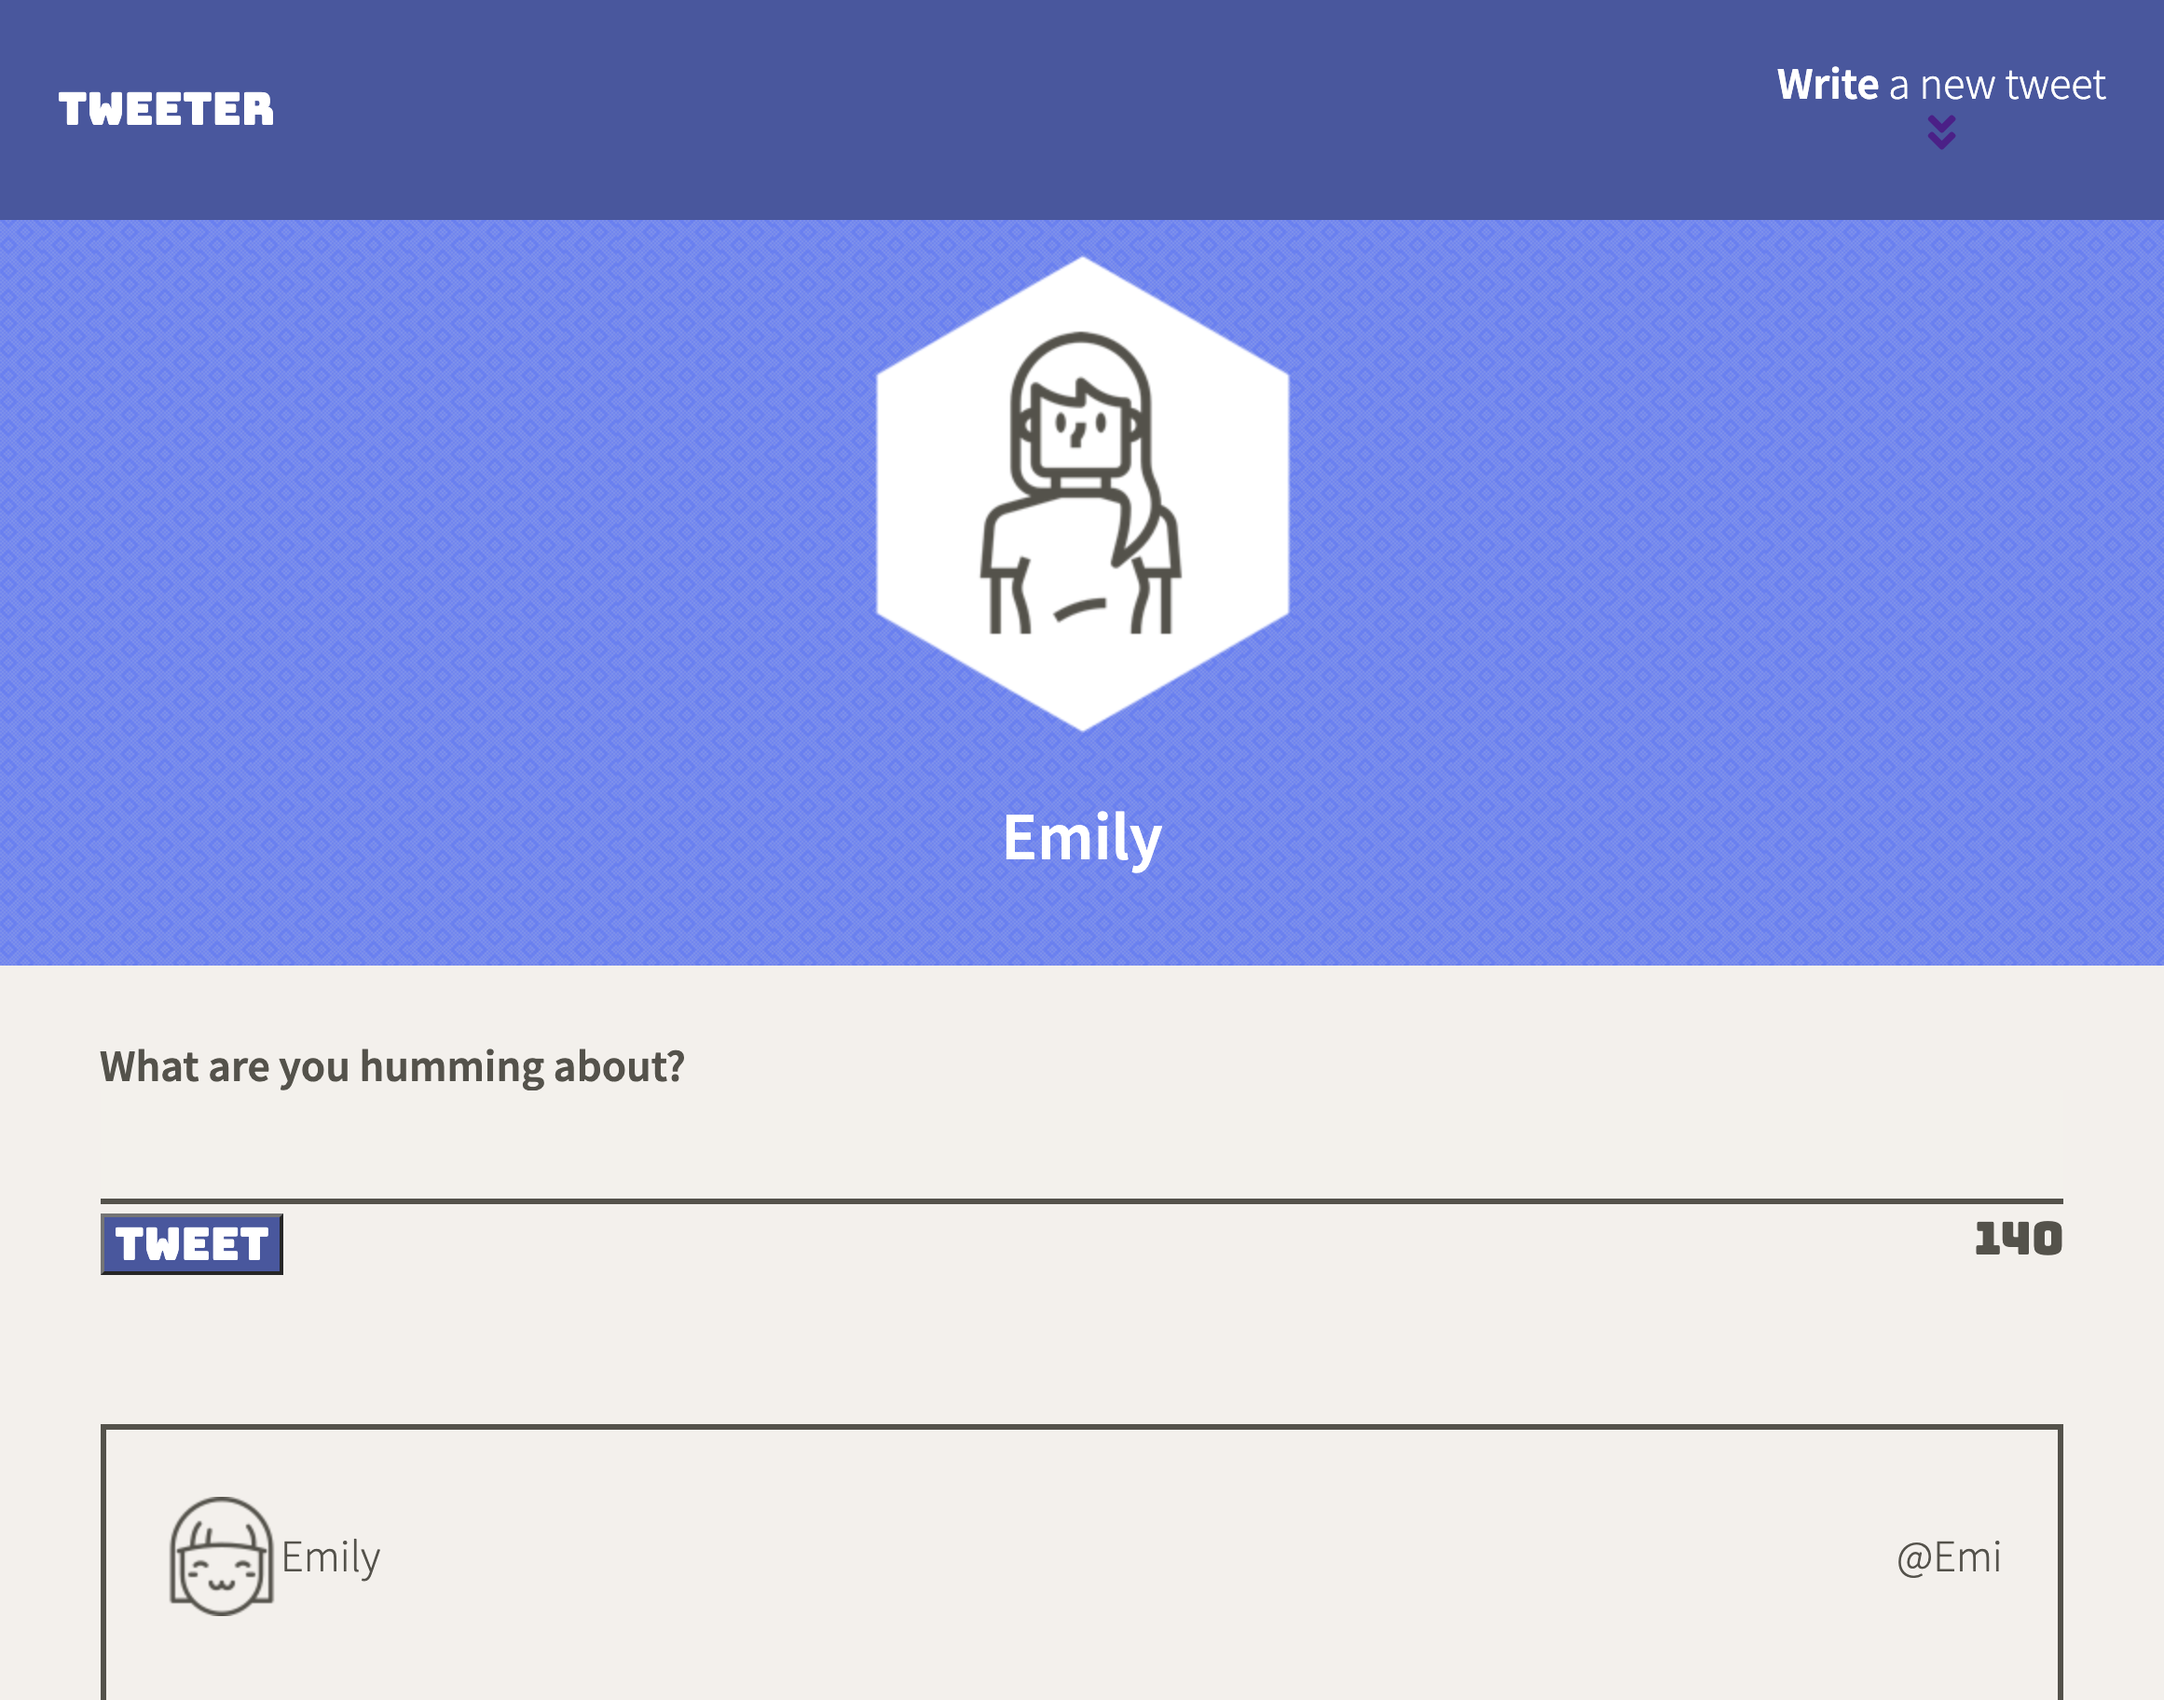
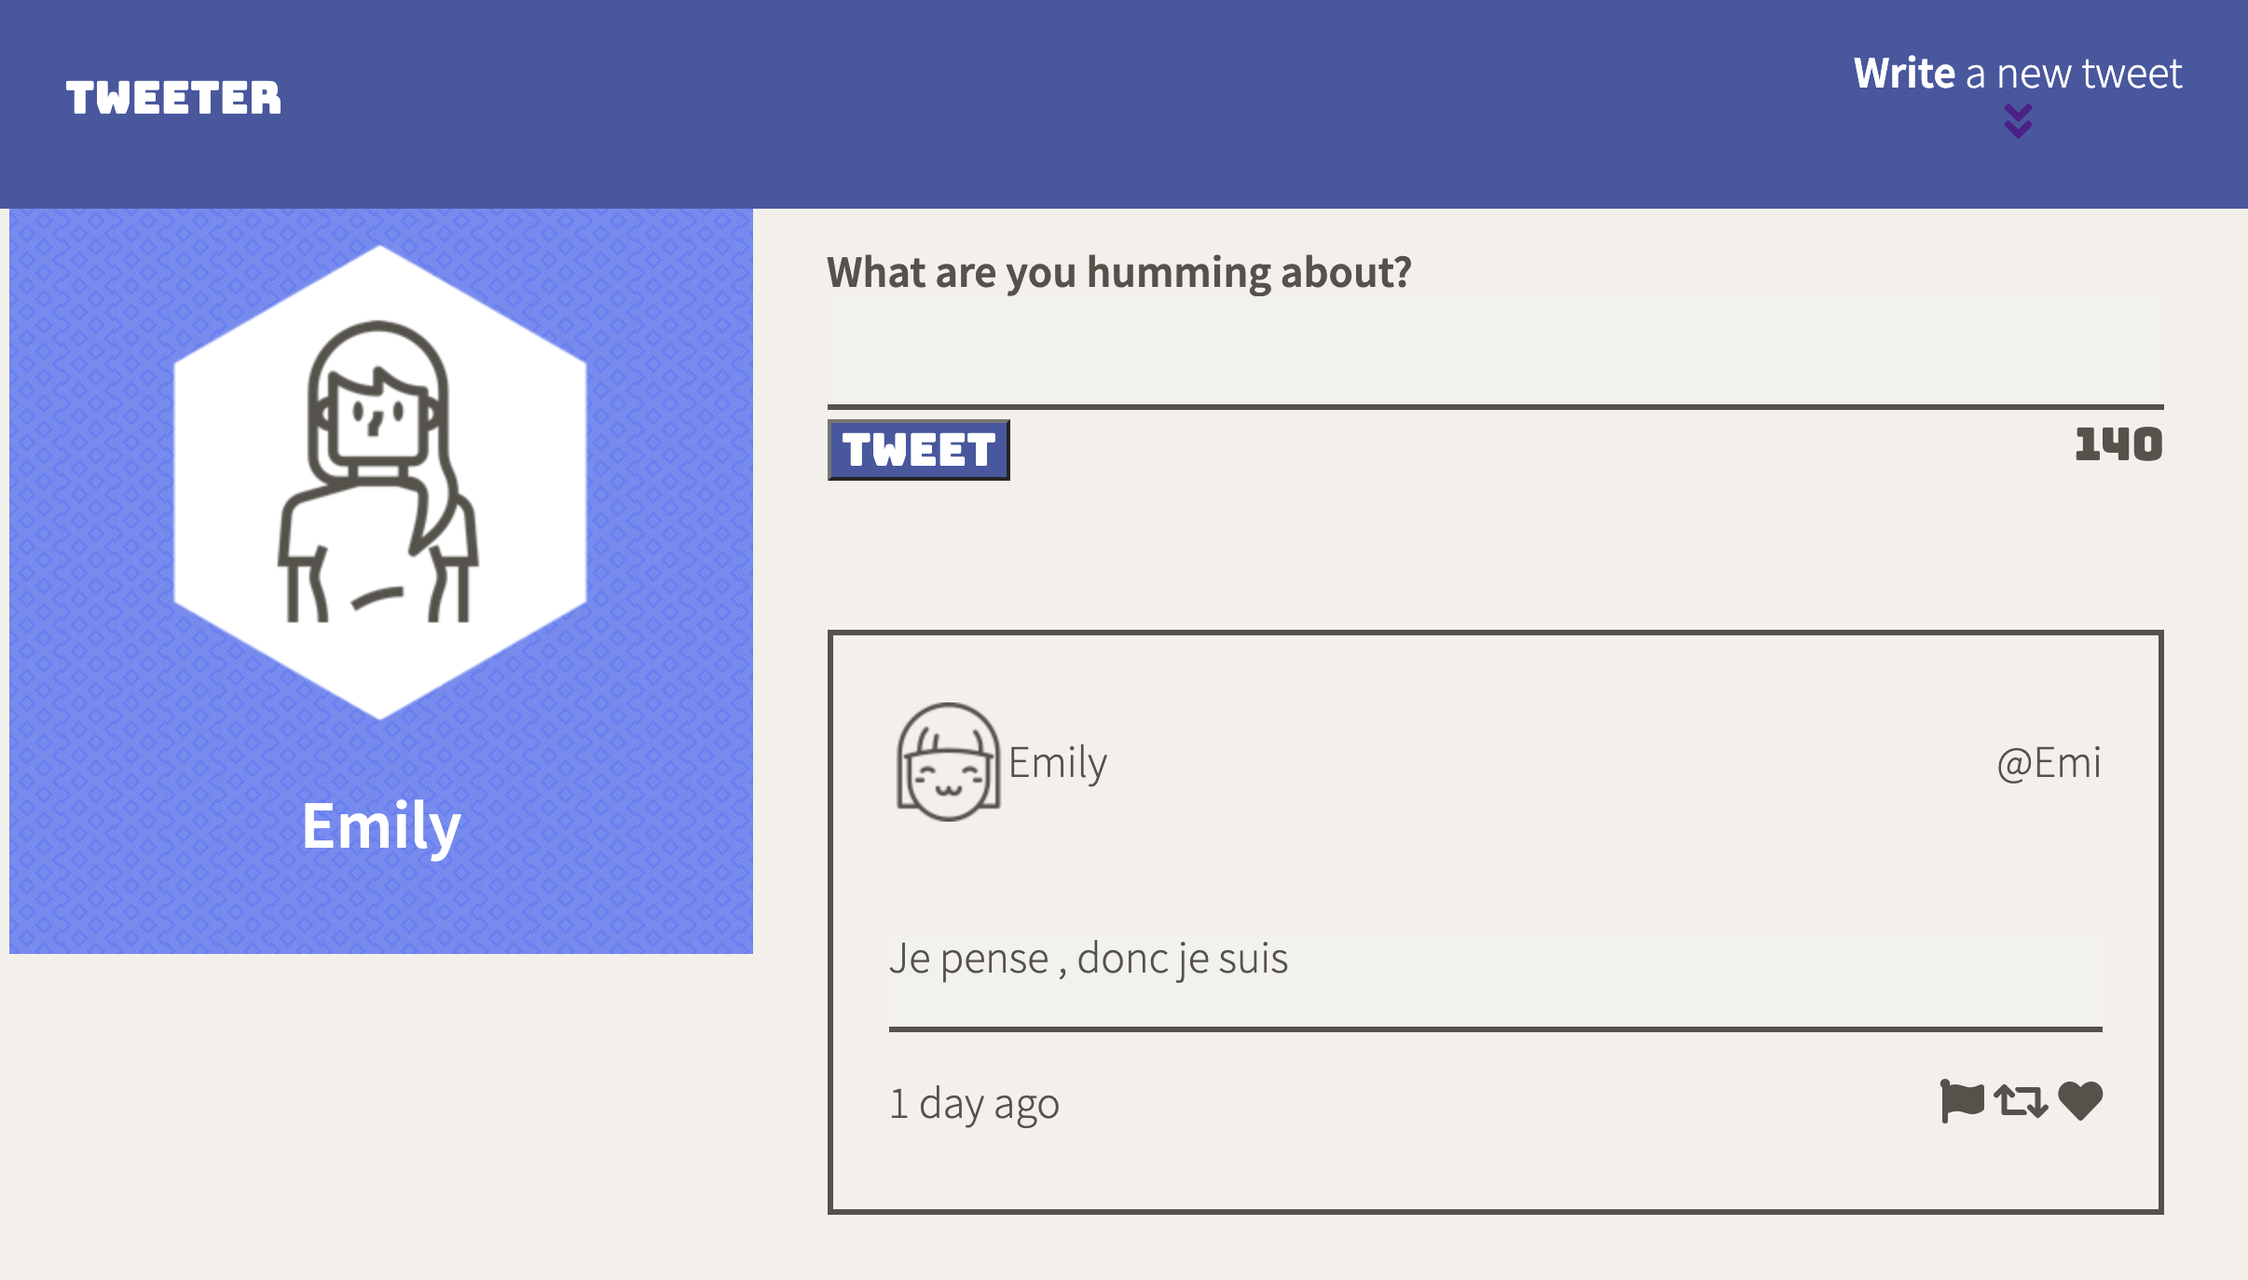
edited README.md img

diff --git a/public/index.html b/public/index.html
@@ -12,17 +12,18 @@
     <link href="https://fonts.googleapis.com/css2?family=Bungee&family=Source+Sans+Pro:wght@300;600&display=swap" rel="stylesheet">
 
     <!-- App CSS -->
-    <link rel="stylesheet" href="/styles/layout.css" type="text/css" />
+    
     <link rel="stylesheet" href="/styles/nav.css" type="text/css" />
     <link rel="stylesheet" href="/styles/header.css" type="text/css" />
     <link rel="stylesheet" href="/styles/new-tweet.css" type="text/css" />
     <link rel="stylesheet" href="/styles/publishedTweet.css" type="text/css" />
+    <link rel="stylesheet" href="/styles/layout.css" type="text/css" />
     <link rel="stylesheet" href="https://cdnjs.cloudflare.com/ajax/libs/font-awesome/5.15.4/css/all.min.css" integrity="sha512-1ycn6IcaQQ40/MKBW2W4Rhis/DbILU74C1vSrLJxCq57o941Ym01SwNsOMqvEBFlcgUa6xLiPY/NS5R+E6ztJQ==" crossorigin="anonymous" referrerpolicy="no-referrer" />
 
     <!-- External JS -->
     <script src="https://ajax.googleapis.com/ajax/libs/jquery/3.4.1/jquery.min.js"></script>
     <script src="https://cdnjs.cloudflare.com/ajax/libs/timeago.js/4.0.2/timeago.min.js" integrity="sha512-SVDh1zH5N9ChofSlNAK43lcNS7lWze6DTVx1JCXH1Tmno+0/1jMpdbR8YDgDUfcUrPp1xyE53G42GFrcM0CMVg==" crossorigin="anonymous" referrerpolicy="no-referrer"></script>
-
+    <meta name='viewport' content='width=device-width, initial-scale=1.0, maximum-scale=1.0' />
 
   </head>
 
@@ -33,14 +34,16 @@
       <span class="newTeet"><span class="bold">Write</span> a new tweet<br><a href="#profName"><i class="fas fa-angle-double-down"></i></a></span>
     </nav>
 
-    <header id="mainHeader">
-      <div class="profilePic">
-          <img src="/images/profile-hex.png"> 
-      </div>
-      <div>
-          <h2 class="profileName" id="profName"><span class="bold">Emily</span></h2>
-      </div>
-    </header>
+    <div class="body-content-wrapper">
+      <header id="mainHeader">
+        <div class="profilePic">
+            <img src="/images/profile-hex.png"> 
+        </div>
+        <div>
+            <h2 class="profileName" id="profName"><span class="bold">Emily</span></h2>
+        </div>
+      </header>
+     
 
     <!-- Page-specific (main) content here -->
     <main class="container">
@@ -58,8 +61,8 @@
       <!-- DIV where will render user's tweet -->
       <div id="tweets-container"></div>
     </main>
-      
-    <footer id="mainFooter">Tweeter</footer>
+  </div>   
+
 
     <!-- App JS --> 
     <script type="text/javascript" src="/scripts/composer-char-counter.js"></script>

diff --git a/public/styles/layout.css b/public/styles/layout.css
@@ -22,29 +22,27 @@ body {
 }
 
 .container {  
-  width: auto;
+  width: 100%;
   display: flex;
   flex-direction: row;
-  justify-content: center;
+  justify-content: center;  
+  flex-wrap: wrap; 
+  align-content: center;
   background-color: #f4f1ec;
   padding-top: 40px;
+  
+}
+.body-content-wrapper{
+  display: flex;
+  flex-direction: column;
+  justify-content: center;  
+  flex-wrap: wrap; 
   align-content: center;
-  flex-wrap: wrap;
+  
 }
 
 span.bold {
   font-weight: 600;
-}
-
-#mainFooter {
-  height: 100px;
-  padding-top: 50px;
-  padding-bottom: 50px;
-  background-color: #787879;
-  color: #fff;
-  align-items: center;
-  font-family: 'Bungee', sans-serif;
-  text-align: center;
 }
 
 #alertMsg {
@@ -58,3 +56,21 @@ span.bold {
 
 }
 
+@media only screen and (min-width: 768px) {
+
+  .body-content-wrapper{
+    flex-direction: row;
+    
+  }
+
+  #mainHeader {
+    width: 33%;
+  } 
+
+  .container {
+    width: 66%;
+    float: right;
+    padding-top: 140px;
+
+  }
+}

diff --git a/public/styles/header.css b/public/styles/header.css
@@ -1,12 +1,13 @@
 #mainHeader {
   display: flex;
   flex-direction: column;
-  margin-top: 120px;
-  height: 400px;
-  width: 100%;
   vertical-align:middle;
   justify-content: center;
-  align-items: center;
+  align-items: center; 
+  width: 100%; 
+  margin-top: 120px;
+  height: 400px;
+  text-align: center;
   background-color: #567BF5;
   background-image: url(http://www.transparenttextures.com/patterns/back-pattern.png);
 }
